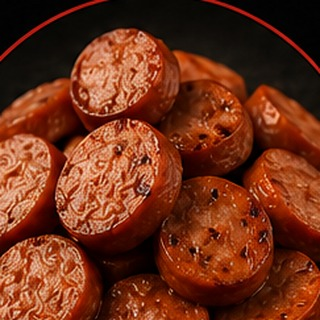
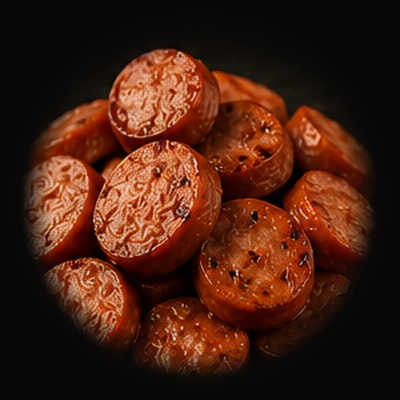
Rehacer las 7 carnes desde los originales y foto propia para la talla XL
Carnes: recortadas de las fotos originales (1536x1024) en vez del póster.
Se retira el fondo blanco por relleno desde el borde —así no se comen las
partes claras del propio alimento (queso del cordon bleu, pollo)— y se
montan sobre un mismo degradado oscuro, de modo que las siete comparten
fondo exacto y no rompen la sintonía con salsas y suplementos. Todas
muestran el producto ya cocinado. Pasan de 320 a 400 px.

Salchicha: no existe original suelto, así que se extrae del póster a
resolución nativa y se funde sobre ese mismo fondo.

Talla XL: estrena foto propia; hasta ahora repetía la de la L.

diff --git a/components/MontaTuTacoBuilder.tsx b/components/MontaTuTacoBuilder.tsx
@@ -9,12 +9,11 @@ import { HalalBadge } from "@/components/SupplementIcons";
 import { CheckIcon, DrinkIcon, FlameIcon, FriesIcon } from "@/components/ValueIcons";
 import { formatPrice, montaTuTaco } from "@/data/products";
 
-// Una foto real por talla. XL comparte foto con la L todavía (pendiente
-// que nos pasen la tercera foto real, distinta, para esa talla).
+// Una foto real y distinta por talla.
 const SIZE_PHOTOS: Record<string, string> = {
   M: "/images/products/monta-tu-taco-m.jpg",
   L: "/images/products/monta-tu-taco-l.jpg",
-  XL: "/images/products/monta-tu-taco-l.jpg",
+  XL: "/images/products/monta-tu-taco-xl.jpg",
 };
 
 // Reglas de la casa: cada tamaño fija cuántas carnes y salsas se pueden elegir.

diff --git a/data/products.ts b/data/products.ts
@@ -141,8 +141,7 @@ export const categories: Category[] = [
         name: "Monta tu Taco — Talla XL",
         price: 11.5,
         description: "3 carnes y 3 salsas a elegir, sin coste extra.",
-        // Misma foto que la L hasta que llegue la foto real distinta para XL.
-        image: "/images/products/monta-tu-taco-l.jpg",
+        image: "/images/products/monta-tu-taco-xl.jpg",
         href: "/monta-tu-taco?talla=XL",
       },
     ],
